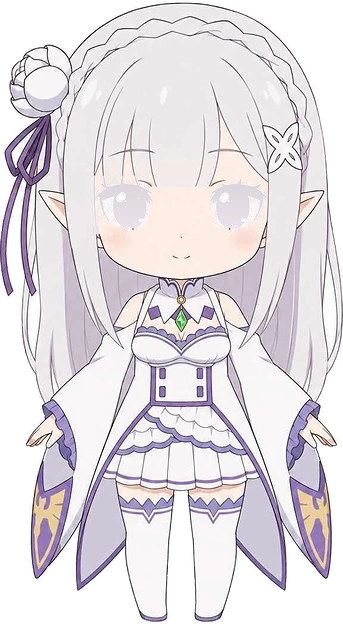
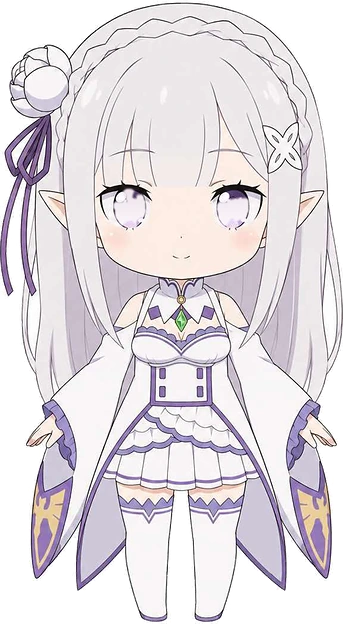
fix(pet): 眼白改用局部取色，眉毛不再被覆盖
- 眼白：不再全局提亮，改为取每只眼周边眼白像素中位数（L 247,240,244 / R 248,241,245），纵向过渡用该区域自身 15/85 分位，与周边色号一致
- 眉毛：闭眼帧原来用泛洪的“眼内区域”整块涂肤色，该区域与眉毛连通导致被盖；改为眼睛 bbox 内缩 1px 的椭圆 + 睫毛弧，肤色取眼睛正上方
- 底图只改虹膜圆盘并限制在眼睛 bbox 内，眉毛区像素差异实测 0
- 虹膜补丁去掉 2px 外扩（会带出旧眼白深边），改 1.2px 高斯羽化
- 资源版本 v=20261029d

Changed region(s): [[0.2624, 0.274, 0.4373, 0.3958], [0.6122, 0.274, 0.7872, 0.3654]]

diff --git a/source/js/pet.js b/source/js/pet.js
@@ -33,7 +33,7 @@
   var bubbleTimer = null, lastPath = null, raf = 0;
 
   /* ---------- 伪 2.5D：整卡透视倾斜 ---------- */
-  var ASSET_V = '?v=20261029c';   // 内容指纹：改素材必须同步改这里，否则 CDN 7 天缓存不会更新
+  var ASSET_V = '?v=20261029d';   // 内容指纹：改素材必须同步改这里，否则 CDN 7 天缓存不会更新
   var SPRITE_1X = '/images/pet/front_208.webp' + ASSET_V;
   var SPRITE_2X = '/images/pet/front_416.webp' + ASSET_V;
   var SPRITE_3X = '/images/pet/front_624.webp' + ASSET_V;
@@ -42,12 +42,12 @@
   var SPRITE_CLOSED_3X = '/images/pet/front_closed_624.webp' + ASSET_V;
   // 三层结构：底图（眼内已铺满眼白）+ 会动的虹膜 + 固定在最上层的睫毛/眼眶
   var EYES = [
-    { src: '/images/pet/iris_l.webp' + ASSET_V, src2: '/images/pet/iris_l@2x.webp' + ASSET_V, src3: '/images/pet/iris_l@3x.webp' + ASSET_V, x: 32.29, y: 29.87, w: 11.11, h: 6.68 },
-    { src: '/images/pet/iris_r.webp' + ASSET_V, src2: '/images/pet/iris_r@2x.webp' + ASSET_V, src3: '/images/pet/iris_r@3x.webp' + ASSET_V, x: 62.33, y: 31.30, w: 10.94, h: 5.34 }
+    { src: '/images/pet/iris_l.webp' + ASSET_V, src2: '/images/pet/iris_l@2x.webp' + ASSET_V, x: 32.64, y: 30.06, w: 10.42, h: 6.3 },
+    { src: '/images/pet/iris_r.webp' + ASSET_V, src2: '/images/pet/iris_r@2x.webp' + ASSET_V, x: 62.85, y: 31.49, w: 10.07, h: 4.96 }
   ];
   var LASHES = [
-    { src: '/images/pet/lash_l.webp' + ASSET_V, src2: '/images/pet/lash_l@2x.webp' + ASSET_V, src3: '/images/pet/lash_l@3x.webp' + ASSET_V, x: 26.91, y: 27.96, w: 17.88, h: 9.73 },
-    { src: '/images/pet/lash_r.webp' + ASSET_V, src2: '/images/pet/lash_r@2x.webp' + ASSET_V, src3: '/images/pet/lash_r@3x.webp' + ASSET_V, x: 60.94, y: 28.63, w: 17.19, h: 8.49 }
+    { src: '/images/pet/lash_l.webp' + ASSET_V, src2: '/images/pet/lash_l@2x.webp' + ASSET_V, x: 27.43, y: 28.63, w: 17.19, h: 8.4 },
+    { src: '/images/pet/lash_r.webp' + ASSET_V, src2: '/images/pet/lash_r@2x.webp' + ASSET_V, x: 60.94, y: 28.63, w: 17.19, h: 7.92 }
   ];
   var MAX_EYE_X = 2.0, MAX_EYE_Y = 1.3;   // 虹膜最大位移（CSS px，1x）
   var TILT_START = 0.62;                  // 指针偏移超过这个比例才开始带头部倾斜
